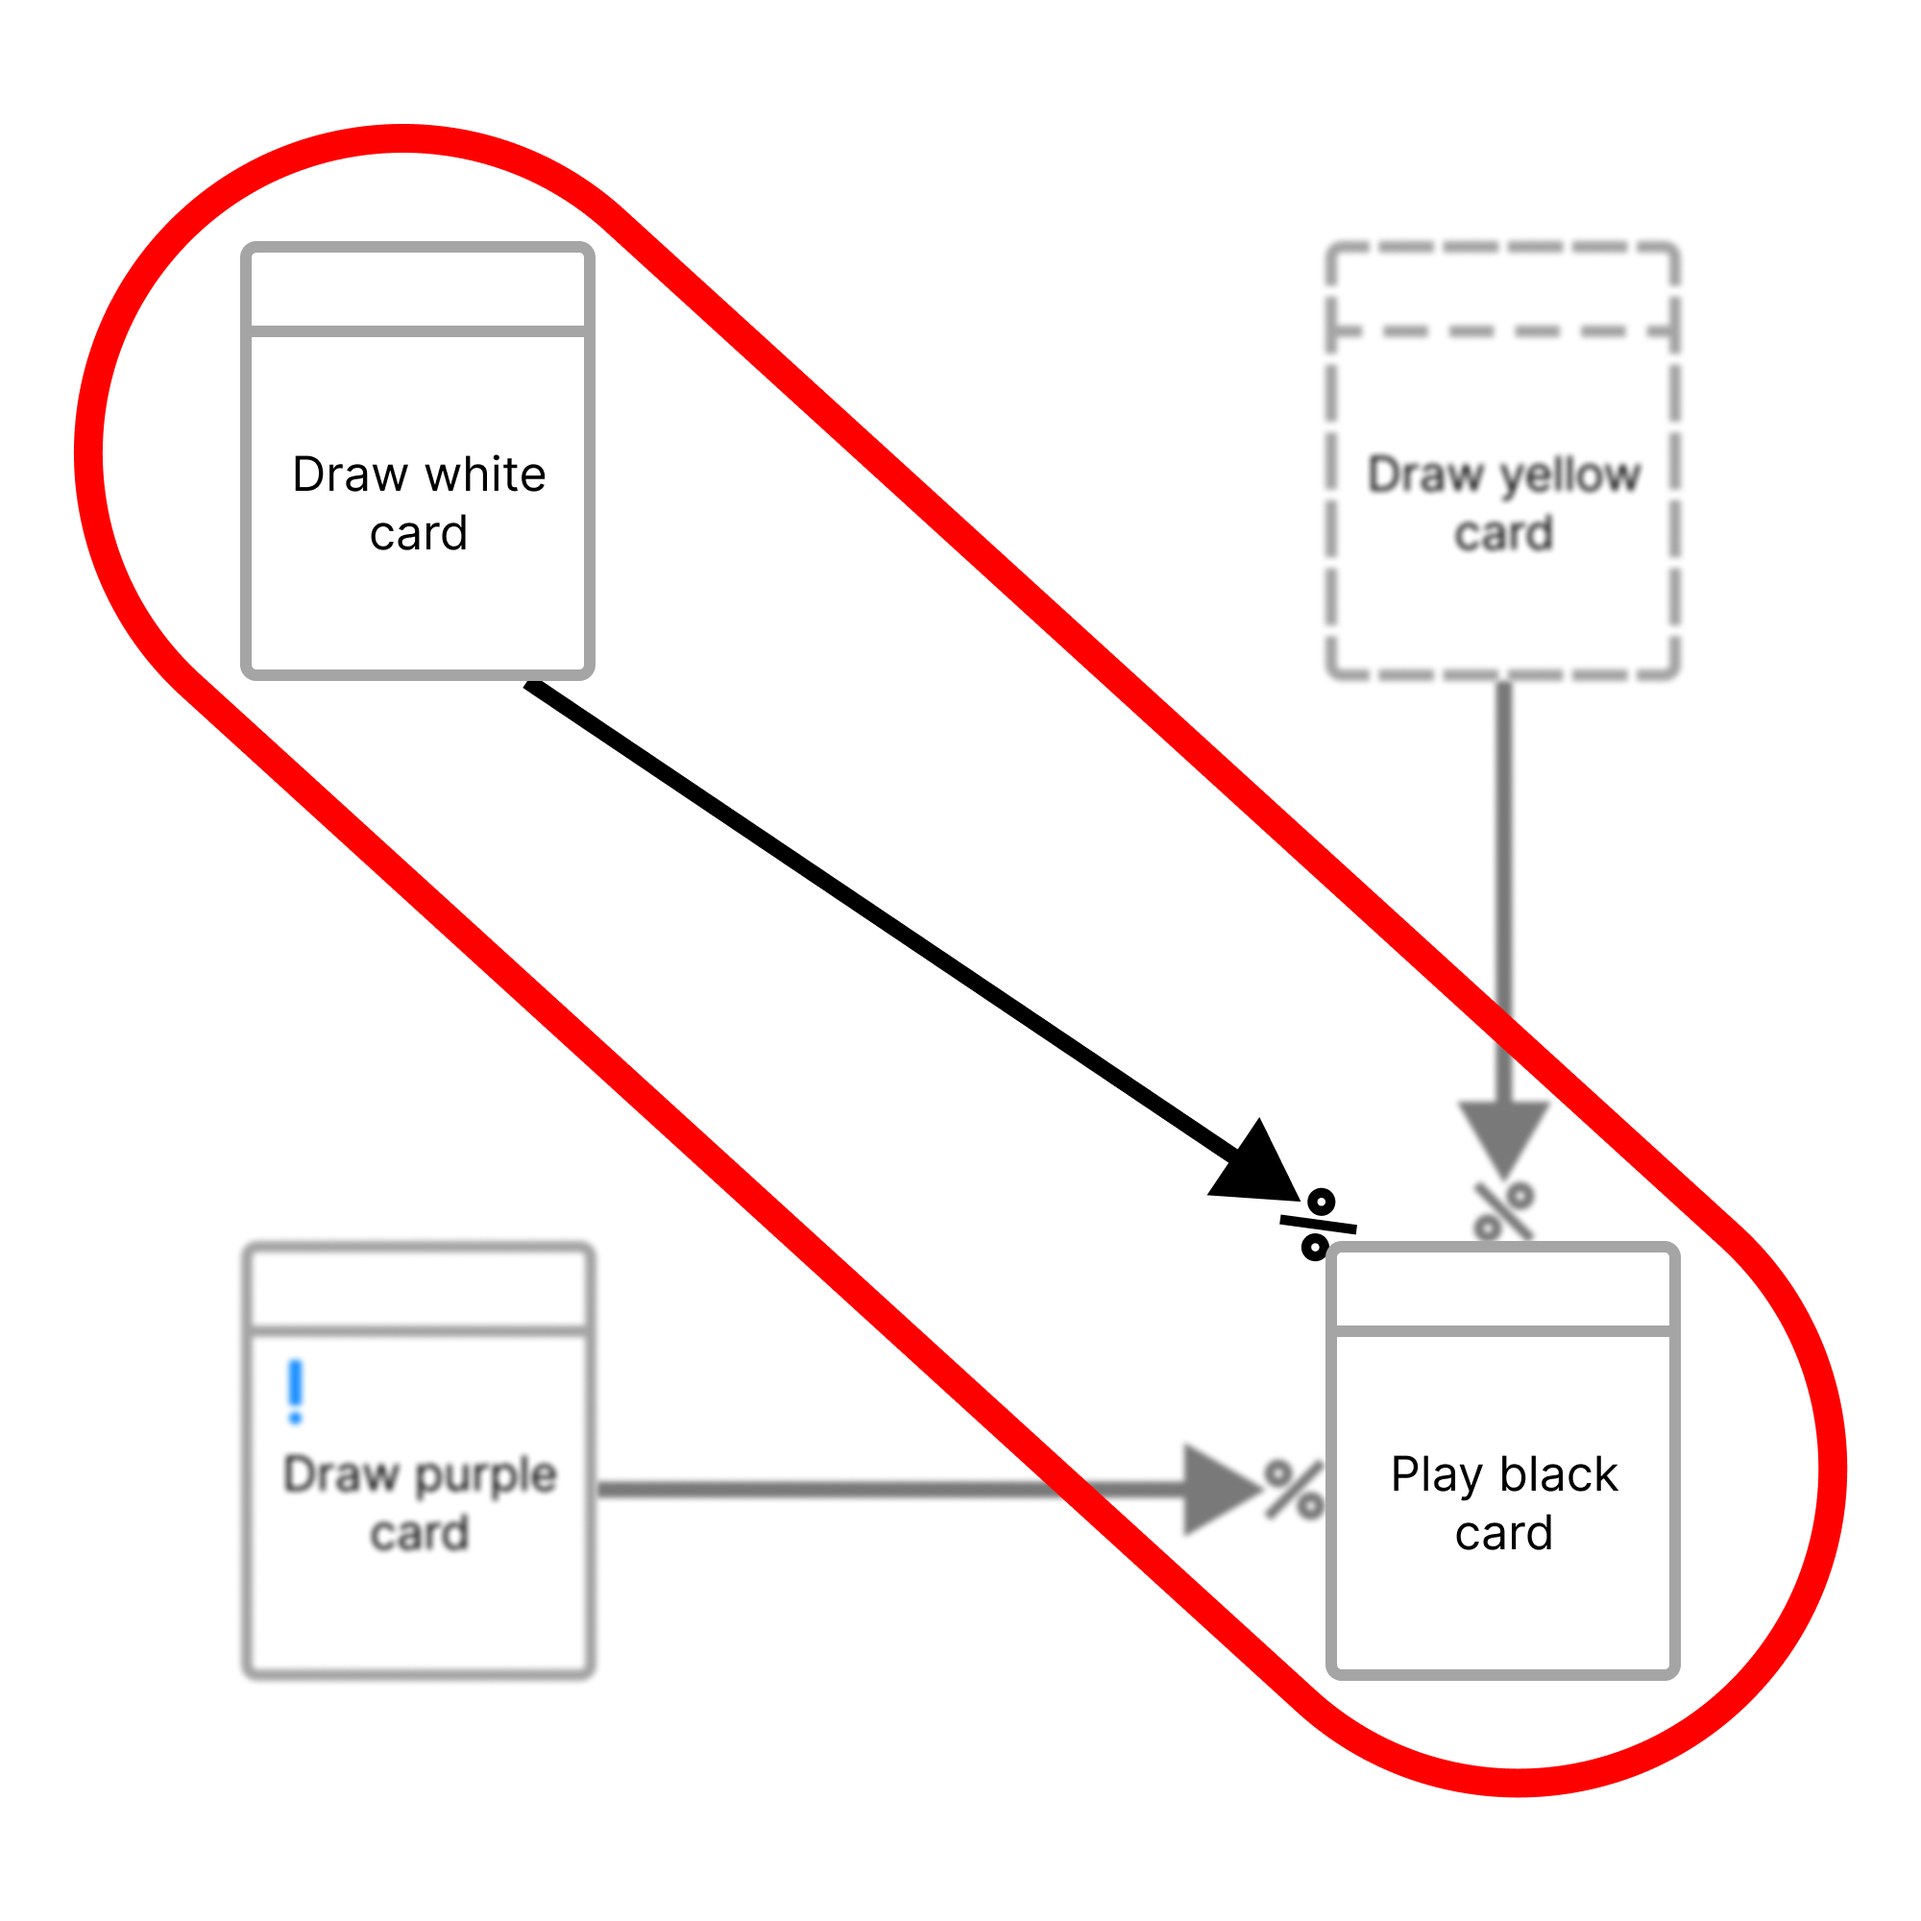
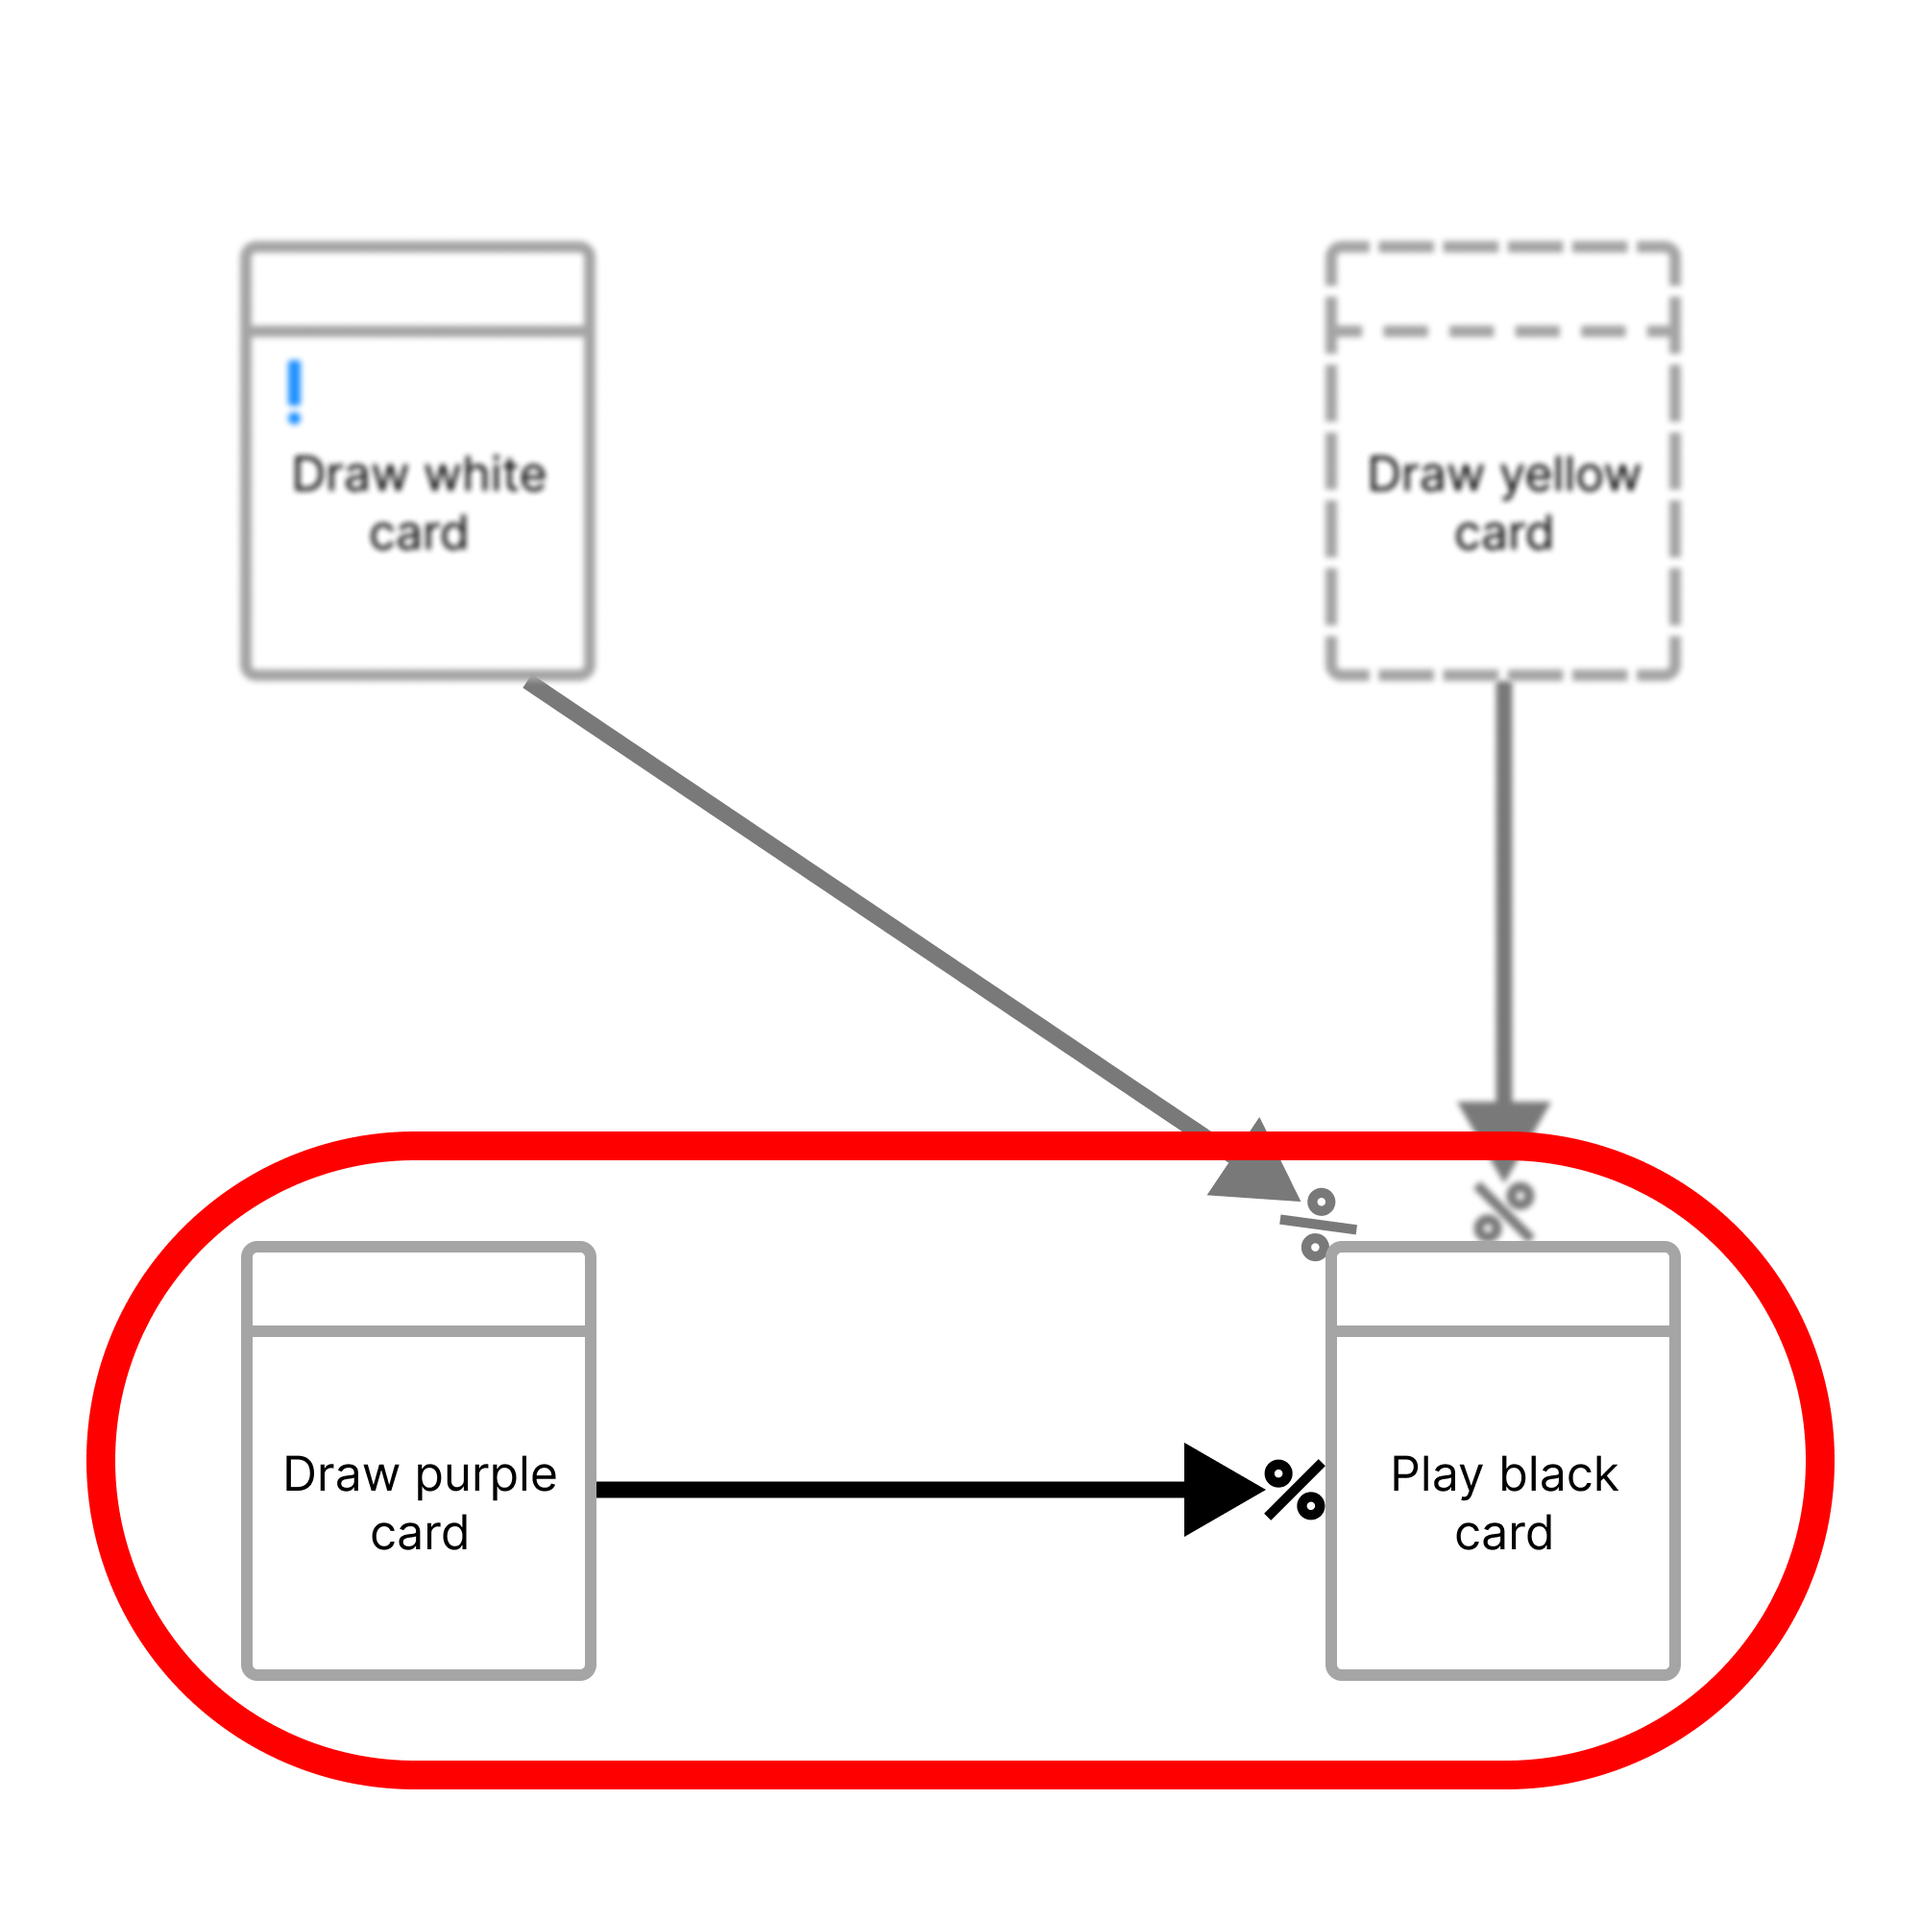
Amine updates

diff --git a/data.js b/data.js
@@ -11,7 +11,7 @@ var answers_purple = {
 	1: "If you \"Draw purple card\" then you <b><u>cannot</u></b> \"Play black card\".", // Exclude
 	2: "You <b><u>can only</u></b> \"Play black card\" once you have \"Draw purple card\".", // Condition
 	3: "If you were unable to \"Play black card\" before, you can now do so after you \"Draw purple card\".", // Include
-	4: "If you \"Draw purple card\" you <b><u>must</u></b> at some point \"Play black card\"", // Response
+	4: "If you \"Draw purple card\" you <b><u>must</u></b> at some point \"Play black card\".", // Response
 	5: "If \"Draw purple card\" is required, then in order to \"Play black card\" you <b><u>must</u></b> \"Draw purple card\" first.", // Milestone
 	6: "No description fits"
 }
@@ -19,11 +19,11 @@ var answers_purple = {
 export var images = {
 	1: {
 		"image": "1_Response.png",
-		"answers": answers_white 
+		"answers": answers_purple 
 	},
 	2: {
 		"image": "1_Condition.png",
-		"answers": answers_white 
+		"answers": answers_purple 
 	},
 	3: {
 		"image": "1_Milestone.png",
@@ -31,19 +31,19 @@ export var images = {
 	},
 	4: {
 		"image": "1_Exclude.png",
-		"answers": answers_white 
+		"answers": answers_purple 
 	},
 	5: {
 		"image": "1_Include.png",
-		"answers": answers_white 
+		"answers": answers_purple 
 	},
 	6: {
 		"image": "2_Response.png",
-		"answers": answers_white 
+		"answers": answers_purple 
 	},
 	7: {
 		"image": "2_Condition.png",
-		"answers": answers_white 
+		"answers": answers_purple 
 	},
 	8: {
 		"image": "2_Milestone.png",
@@ -51,11 +51,11 @@ export var images = {
 	},
 	9: {
 		"image": "2_Exclude.png",
-		"answers": answers_white 
+		"answers": answers_purple 
 	},
 	10: {
 		"image": "2_Include.png",
-		"answers": answers_white 
+		"answers": answers_purple 
 	},
 
 }
@@ -76,7 +76,7 @@ export var pages = {
 	},
 	"about": {
 		"title": "ABOUT",
-		"text": "My name is Dung M. T. Trinh and I am a bachelor student at Technical University of Denmark (DTU). <br> <br> As part of my bachelor project, I am conducting a survey as one of my studies. The purpose of this survey is to investigate the understanding of the <b><i>visual representation of relations</i></b> with its intended meaning for Dynamic Condition Response (DCR) graphs. <br> <br>Before the survey you will be provided with an explanation to the concept of DCR. You will also be given instructions on how to complete the survey. The survey will take approximately 15-25 minutes (including reading the explanation and instructions).",
+		"text": "My name is Dung M. T. Trinh and I am a bachelor student at Technical University of Denmark (DTU). <br> <br> As part of my bachelor project, I am conducting a survey as one of my studies. The purpose of this survey is to investigate the understanding of the <b><i>visual representation of relations</i></b> in a process modeling language called Dynamic Condition Response (DCR) graphs. <br> <br>Before the survey you will be provided with an explanation to the concept of DCR. You will also be given instructions on how to complete the survey. The survey will take approximately 15-25 minutes (including reading the explanation and instructions).",
 
 		"text_important": "<br><br><b>Please read the explanation and instructions thoroughly.</b>",
 		
@@ -84,7 +84,7 @@ export var pages = {
 	},
 	"dcr": {
 		"title": "Dynamic Condition Response (DCR)",
-		"text_event": "A DCR graph consists of nodes and edges:<ul><li>A node is called an<b><i>event</i></b>, which is visualized by a rectangle, represents something that can happen. E.g.: \"Draw yellow card\":</li></ul>",
+		"text_event": "A DCR graph consists of nodes and edges:<ul><li>A node is called an <b><i>event</i></b>, which is visualized by a rectangle, represents something that can happen. E.g.: \"Draw yellow card\":</li></ul>",
 
 		"text_relation": "<ul><li>A <b><i>relation</i></b> represents a relationship between two events. The relation is indicated by a continuous connection between two events. E.g. the following dashed relation could indicate; <i>if I \"Draw yellow card\" then I can never \"Play black card\"</i>:</li></ul>",
 
@@ -92,25 +92,25 @@ export var pages = {
 
 		"text_markings": "<b>Executed event</b>: An executed event is marked with a green check mark and indicates that the event has happened.<br> E.g. If the event is \"Draw yellow card\", then by adding the green check mark, one has indicated that \"Draw yellow card\" has happened. <br><br> <b>Excluded event</b>: An excluded event is marked with a dashed outline and indicates that the event cannot be executed.<br>E.g. If the event is \"Draw yellow card\", then by having the dashed outline, one has indicated that \"Draw yellow card\" cannot happen.<br><br> <b>Pending event</b>: A pending event is marked with a blue exclamation mark and indicates that the event <u>must happen</u> and is therefore now <u>required</u>.<br>E.g. If the event is \"Draw yellow card\", then by adding the blue exclamation mark, one has indicated that \"Draw yellow card\" is <u>required</u> and <u>must happen</u>.<br><br> <b>Default event</b>: The default state of an event is <u>not executed</u>, <u>not excluded</u> (i.e. included), and <u>not pending</u>.", 
 
-		"text_next": "<br><br>Following is the instructions for the survey. By continuing it is assumed that you are familiar with the presented concepts about DCR <b><u>(You can take a screenshot of this page if needed)</u></b>.",
+		"text_next": "<br><br>Following are the instructions for the survey. By continuing it is assumed that you are familiar with the presented concepts about DCR <b><u>(You can take a screenshot of this page if needed)</u></b>.",
 		"button": "CONTINUE"
 	},
 
 	"instructions":{
 		"title": "INSTRUCTIONS",
-		"text":"In a moment, you will be shown an image with one type of relation and four events. Two of the events and the relation between them will be highlighted with red. (See example below)",
+		"text":"In a moment, you will be shown an image with one type of relation and four events. The events and the relation relevant for the given task will be highlighted in red.",
 
 		"text_descriptions": "Below the image, you will be shown 6 different descriptions (in no particular order). <br><br><b>The descriptions for the example above are as follows:</b>",
 
-		"text_exclude": "<hr><ul><li>If you \"Draw white card\" then you <b><u>cannot</u></b> \"Play black card\".</li></ul>",
+		"text_exclude": "<hr><ul><li>If you \"Draw purple card\" then you <b><u>cannot</u></b> \"Play black card\".</li></ul>",
 		
-		"text_condition": "<hr><ul><li>You <b><u>can only</u></b> \"Play black card\" once you have \"Draw white card\".</li></ul>",
+		"text_condition": "<hr><ul><li>You <b><u>can only</u></b> \"Play black card\" once you have \"Draw purple card\".</li></ul>",
 
-		"text_response": "<hr><ul><li>If you \"Draw white card\" you <b><u>must</u></b> at some point \"Play black card\"</li></ul>",
+		"text_response": "<hr><ul><li>If you \"Draw purple card\" you <b><u>must</u></b> at some point \"Play black card\".</li></ul>",
 
-		"text_include": "<hr><ul><li>If you were unable to \"Play black card\" before, you can now do so after you \"Draw white card\".</li></ul>",
+		"text_include": "<hr><ul><li>If you were unable to \"Play black card\" before, you can now do so after you \"Draw purple card\".</li></ul>",
 
-		"text_milestone": "<hr><ul><li>If \"Draw white card\" is required, then in order to \"Play black card\" you <b><u>must</u></b> \"Draw white card\" first.</li></ul>",
+		"text_milestone": "<hr><ul><li>If \"Draw purple card\" is required, then in order to \"Play black card\" you <b><u>must</u></b> \"Draw purple card\" first.</li></ul>",
 
 		"text_none": "<hr><ul><li>No description fits</li></ul><hr>",
 
